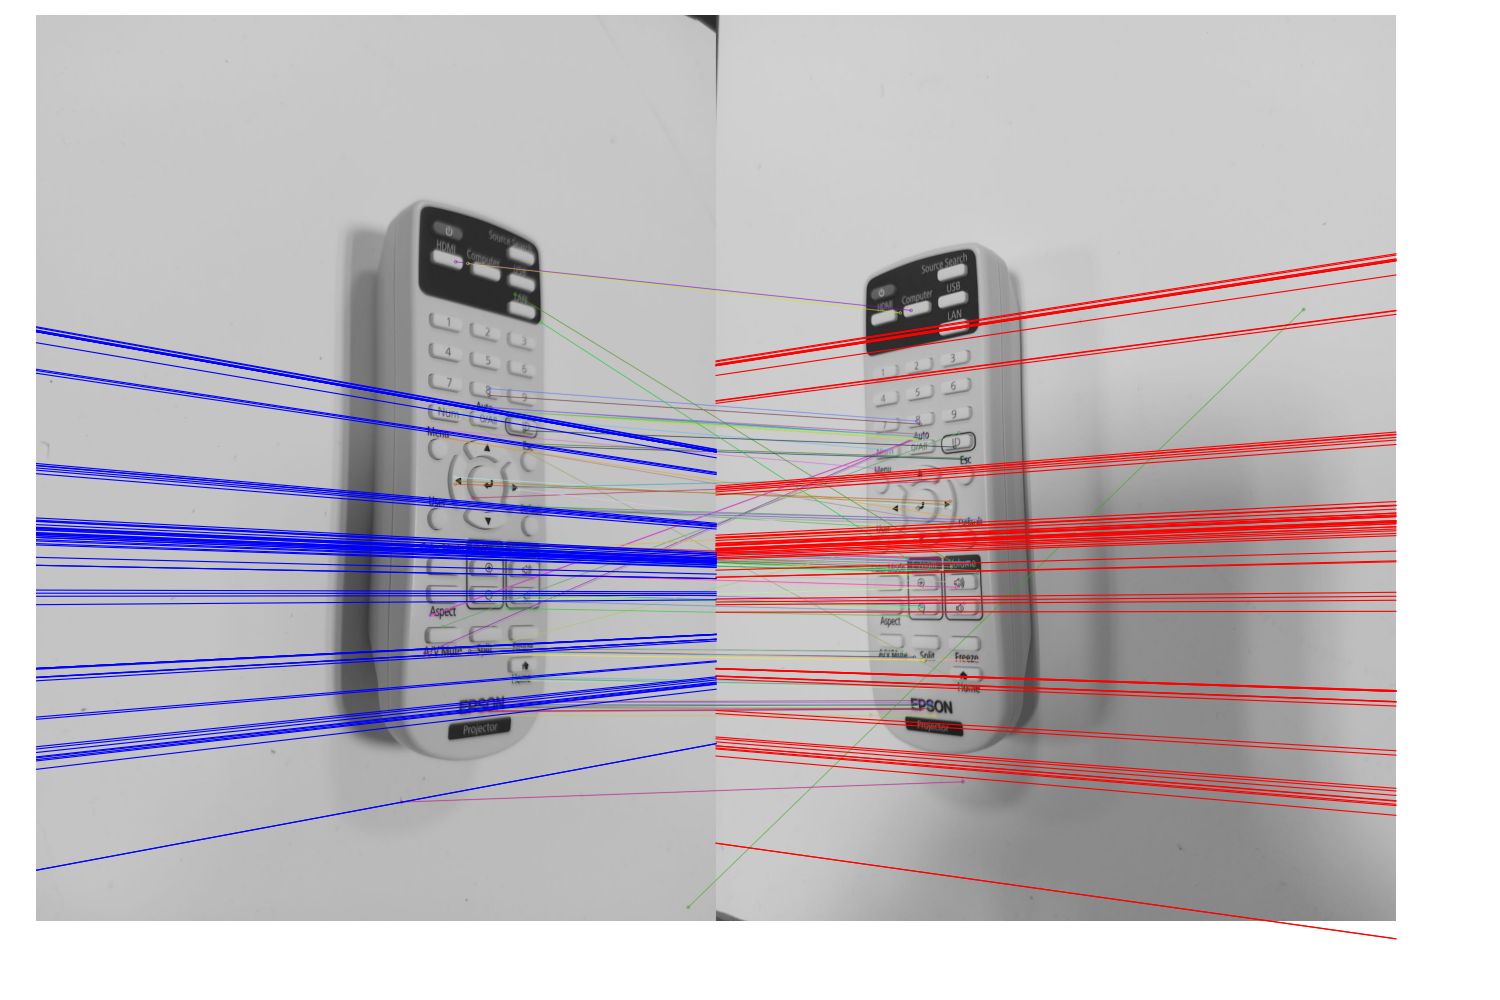
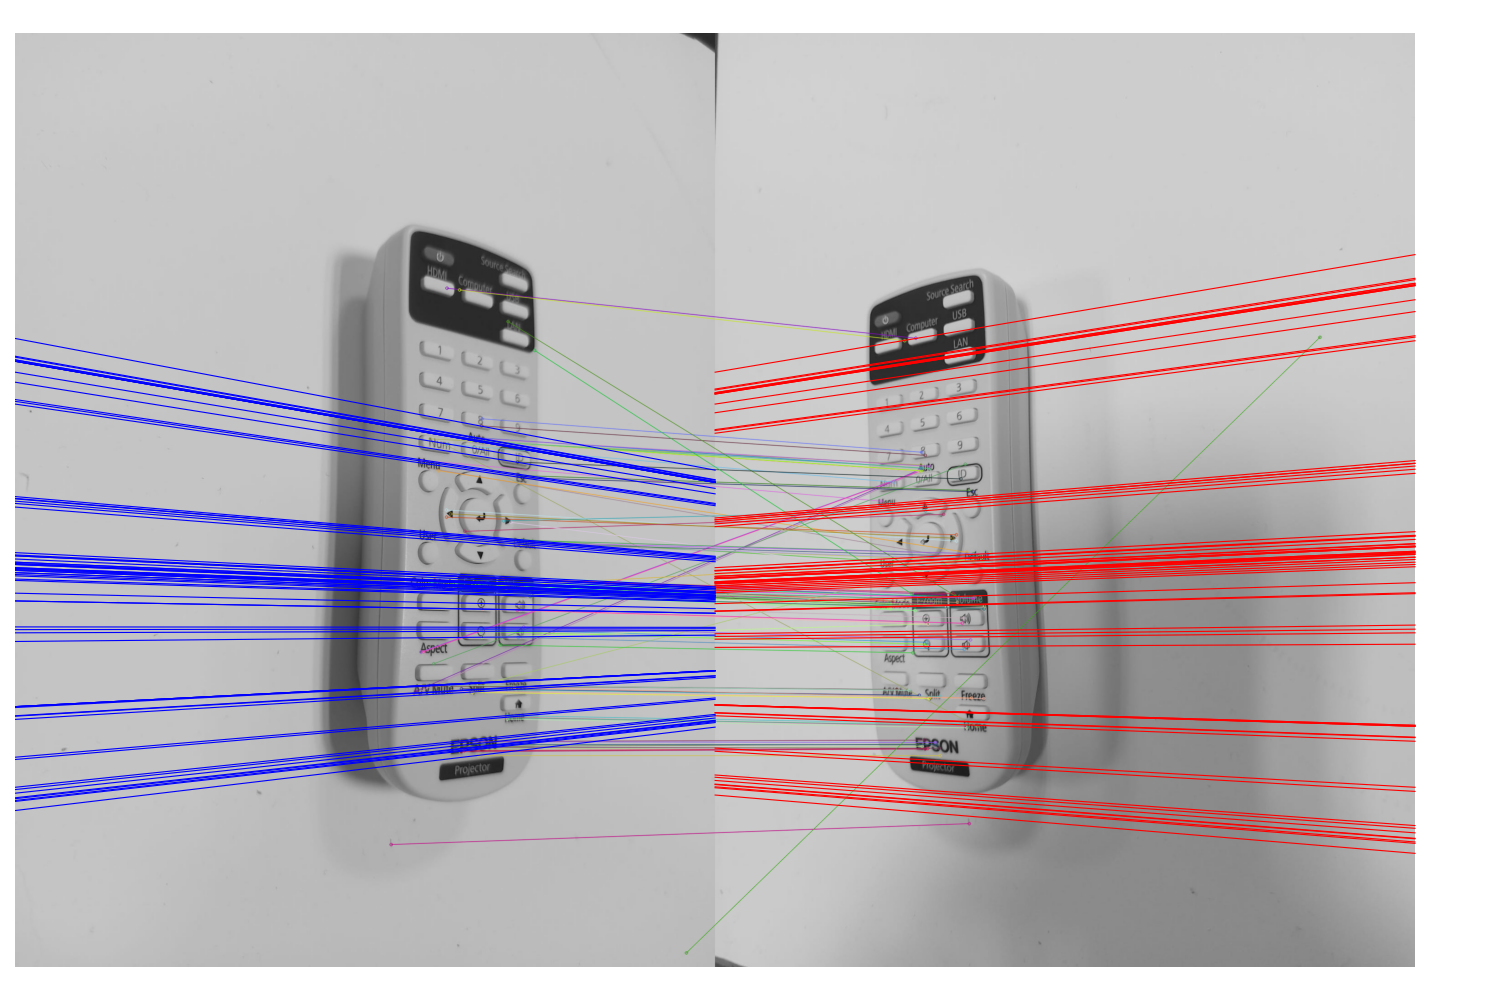
Fase 5 del codigo
estoy incluye pruebas de su funcionalidad asi como otro codigo de verificacion de esta fase, tambien se han implementado las mejoras que se especificaron el la previa revision

Changed region(s): [[0.0, 0.0, 0.9507, 0.992], [0.3987, 0.279, 0.5213, 0.31], [0.4907, 0.837, 0.5213, 0.868]]

diff --git a/Rectificación.py b/Rectificación.py
@@ -1,77 +1,295 @@
-import cv2 #opencv
 import numpy as np #funciones matematicas
-import glob #trata de ficheros
+import cv2 #opencv
 import os #trata de directorios
 
-def calibrar_camara(imagenes, tamano_tablero, tamano_casilla):
-    objp = np.zeros((tamano_tablero[0]*tamano_tablero[1], 3), np.float32)
-    objp[:, :2] = np.mgrid[0:tamano_tablero[0], 0:tamano_tablero[1]].T.reshape(-1, 2)
-    objp *= tamano_casilla
+def descomponer_matriz_esencial(E):
+    U, _, Vt = np.linalg.svd(E)
+    if np.linalg.det(U) < 0: U *= -1
+    if np.linalg.det(Vt) < 0: Vt *= -1
 
-    objpoints = []
-    imgpoints = []
+    W = np.array([
+        [0, -1, 0],
+        [1,  0, 0],
+        [0,  0, 1]
+    ])
 
-    images = glob.glob(os.path.join(imagenes, '*.png'))
-    if len(images) == 0:
-        print("No se encontraron imagenes.")
-        return
-
-    for fname in images:
-        img = cv2.imread(fname)
-        gray = cv2.cvtColor(img, cv2.COLOR_BGR2GRAY)
-
-        ret, corners = cv2.findChessboardCorners(gray, tamano_tablero, None)
-        if ret:
-            objpoints.append(objp)
-            imgpoints.append(corners)
-            cv2.drawChessboardCorners(img, tamano_tablero, corners, ret)
-
-            # imagen con esquinas
-            out_dir = "output"
-            os.makedirs(out_dir, exist_ok=True)
-            out_name = os.path.basename(fname).replace('.png', '_corners.png')
-            cv2.imwrite(os.path.join(out_dir, out_name), img)
-
-    # Calibrar camara (rvecs y tvecs documentacion oficial de OpenCV)
-    ret, K, dist, rvecs, tvecs = cv2.calibrateCamera(objpoints, imgpoints, gray.shape[::-1], None, None)
-
-    # Obtener matriz de proyeccion P
-    R, _ = cv2.Rodrigues(rvecs[0])
-    t = tvecs[0]
-    Rt = np.hstack((R, t))
-    P = K @ Rt
-
-    # Guardar matriz P
-    np.save("output/P.npy", P)
-    print("Calibracion completada. Matriz P guardada en output/P.npy")
+    R1 = U @ W @ Vt
+    R2 = U @ W.T @ Vt
+    t = U[:, 2]
+    return [(R1, t), (R1, -t), (R2, t), (R2, -t)]
 
 '''
-Esta funcion calcula la matriz de calibracion de la camara a partir de imagenes de un tablero con patron de tablero de ajedrez.
+Toma la matriz esencial E, que contiene la geometria entre dos camaras y la descompone para obtener 4 posibles combinaciones de rotacion y traslacion
+(Estas representan cómo está colocada la segunda cámara respecto a la primera).
+'''
 
-Primero inicializamos los puntos 3D creando objp, que contiene la disposicion de las esquinas del tablero.
-Luego se multiplica por tamano_casilla, que representa el tamaño de cada casilla del tablero en milimetros (en nuestro caso al ser un tablero de 8 x 6 casillas,
-deberemos utilziar un tamaño de 7 x 5 debido a que trabajaremos con las intersecciones internas del tablero)
+# Triangular un punto 3D desde dos cámaras
+def triangula_punto(P1, P2, x1, x2):
+    A = np.array([
+        x1[0] * P1[2] - P1[0],
+        x1[1] * P1[2] - P1[1],
+        x2[0] * P2[2] - P2[0],
+        x2[1] * P2[2] - P2[1]
+    ])
+    _, _, Vt = np.linalg.svd(A)
+    X = Vt[-1]
+    return X[:3] / X[3]
 
-Luego buscamos todas las imagenes .png dentro de la carpeta especificada y si no hay la ejecucion se detiene.
+'''
+Recibe un punto (x1) de la imagen 1 y otro (x2) de la imagen 2. Luego usa las matrices de proyeccion de "ambas cámaras" (la misma pero angulos distintos) para 
+reconstruir ese punto en 3D y devolver su posicion en el espacio.
+'''
 
-Para lograr la deteccion de esquinas trabajamos con las imagenes de manera individual de la siguiente forma:
-- Se convierte a escala de grises.
-- Aplicamos cv2.findChessboardCorners para detectar las esquinas, si se consigue agregamos la informaicon de los puntos reales a objpoints y los puntos 2D a imgpoints.
-- Se dibujan las esquinas sobre la imagen y se guarda una copia de la imagen con las esquinas detectadas en la carpeta output.
+# Comprobar si el punto está delante de la cámara
+def punto_delante(P, X):
+    X_h = np.append(X, 1)
+    x_cam = P @ X_h
+    return x_cam[2] > 0
 
-Con lo anterior llamamos a cv2.calibrateCamera, que calcula los parametros de la camara utilizando las esquinas detectadas lo que devuelve:
+'''
+Verifica si el punto 3D que se ha triangulado está delante de la camara (y no detras), si está delante, significa que esa combinacion de R (rotacion), t (traslacion) 
+es válida fisicamente.
+'''
 
-- K: Matriz intrinseca.
-- rvecs y tvecs: Vectores de rotacion y traslacion.
+# Seleccionar (R, t) consistente con E y con el punto delante
+def resolver_pose(E, y1, y2, K):
+    poses = descomponer_matriz_esencial(E)
+    P1 = K @ np.hstack((np.eye(3), np.zeros((3, 1))))
 
-Por ultimo obtenemos la matriz de proyeccion (P) con las matrices de rotacion y traslacion obtenidas de los vectores anteriores, luego, guardamos la informacion
-de la matriz P en un archivo .npy para su posterior uso.
+    for R, t in poses:
+        P2 = K @ np.hstack((R, t.reshape(3, 1)))
+        X = triangula_punto(P1, P2, y1, y2)
+        if punto_delante(P1, X) and punto_delante(P2, X):
+            return R, t
+    raise ValueError("No se encontró ninguna configuración válida con el punto delante de ambas cámaras.")
+
+'''
+Toma los puntos normalizados (y1,y2) y la matriz esencial para probar las 4 combinaciones posibles de R y t. Luego triangula el punto en 3D con cada combinación y
+devuelve la única que deja el punto delante de ambas cámaras.
+'''
+
+# Construir las homografías Hl y Hr
+def construir_homografias(K, R, t):
+    z = t / np.linalg.norm(t)
+    x = np.cross([0, 1, 0], z)
+    x /= np.linalg.norm(x)
+    y = np.cross(z, x)
+    R_rect = np.vstack((x, y, z)).T
+
+    H_l = K @ R_rect @ np.linalg.inv(K)
+    H_r = K @ R_rect @ R.T @ np.linalg.inv(K)
+    return H_l, H_r
+
+'''
+Construye dos homografías (matrices de transformación) para rotar cada imagen con la idea de alinear los angulos virtualmente, como si ambos estuvieran mirando 
+al frente para hacer que los puntos correspondientes estén en la misma altura en ambas imágenes
+'''
+
+# Aplicar homografías a imágenes
+def aplicar_rectificacion(img_izq, img_der, Hl, Hr, guardar_en="output"):
+    img_left = cv2.imread(img_izq)
+    img_right = cv2.imread(img_der)
+
+    h, w = img_left.shape[:2]
+
+    img_left_rect = cv2.warpPerspective(img_left, Hl, (w, h))
+    img_right_rect = cv2.warpPerspective(img_right, Hr, (w, h))
+
+    os.makedirs(guardar_en, exist_ok=True)
+    cv2.imwrite(os.path.join(guardar_en, "rect_izq.png"), img_left_rect)
+    cv2.imwrite(os.path.join(guardar_en, "rect_der.png"), img_right_rect)
+    print(f"\nRectificación completada. Imágenes guardadas en '{guardar_en}/rect_izq.png' y 'rect_der.png'.")
+
+'''
+Carga las dos imágenes originales (img_izq, img_der) y aplica las homografías calculadas con cv2.warpPerspective(), luego guarda las imágenes 
+rectificadas, donde las líneas epipolares ya son horizontales.
 '''
 
 if __name__ == "__main__":
-    imagenes = "/mnt/c/Users/vicen/Documents/GitHub/Vision3D/Imagenes"
-    tamano_tablero = (7, 5)      # Esquinas internas (tablero de 8x6 casillas)
-    tamano_casilla = 30         # milimetros
+    # Cargar entradas previas
+    E = np.load("output/E.npy")
+    K = np.load("output/K_P.npy")
+    pts1 = np.load("output/pts1.npy")
+    pts2 = np.load("output/pts2.npy")
+    inliers = np.load("output/inliers.npy")
 
-    calibrar_camara(imagenes, tamano_tablero, tamano_casilla)
+    # Elegir una correspondencia válida
+    y1 = np.linalg.inv(K) @ np.append(pts1[inliers[0]], 1)
+    y2 = np.linalg.inv(K) @ np.append(pts2[inliers[0]], 1)
 
+    # Calcular R, t consistentes con E y el punto delante
+    R, t = resolver_pose(E, y1, y2, K)
+
+    # Calcular homografías de rectificación
+    Hl, Hr = construir_homografias(K, R, t)
+
+    # Mostrar resultados
+    print("\nRotación R:\n", R)
+    print("\nTraslación t:\n", t)
+    print("\nHomografía izquierda Hl:\n", Hl)
+    print("\nHomografía derecha Hr:\n", Hr)
+
+    # Guardar resultados
+    np.save("output/R_rectified.npy", R)
+    np.save("output/t_rectified.npy", t)
+    np.save("output/Hl.npy", Hl)
+    np.save("output/Hr.npy", Hr)
+
+    # Aplicar homografías a imágenes reales
+    img_izq = "/mnt/c/Users/vicen/Documents/GitHub/Vision3D/Imagenes/Image15.png"
+    img_der = "/mnt/c/Users/vicen/Documents/GitHub/Vision3D/Imagenes/Image16.png"
+    aplicar_rectificacion(img_izq, img_der, Hl, Hr)
+
+
+
+
+
+
+
+
+
+
+
+
+
+
+
+
+
+
+
+
+
+
+
+
+
+
+
+
+
+
+
+
+
+
+'''
+
+#otra manera de hacer el mismo codigo, esta es una prueba, funciona diferente y no nos gusta el resultado
+
+import numpy as np
+import cv2
+import os
+
+def descomponer_matriz_esencial(E):
+    U, _, Vt = np.linalg.svd(E)
+    if np.linalg.det(U) < 0: U *= -1
+    if np.linalg.det(Vt) < 0: Vt *= -1
+
+    W = np.array([[0, -1, 0],
+                  [1,  0, 0],
+                  [0,  0, 1]])
+
+    R1 = U @ W @ Vt
+    R2 = U @ W.T @ Vt
+    t = U[:, 2]
+    return [(R1, t), (R1, -t), (R2, t), (R2, -t)]
+
+def triangula_punto(P1, P2, x1, x2):
+    A = np.array([
+        x1[0] * P1[2] - P1[0],
+        x1[1] * P1[2] - P1[1],
+        x2[0] * P2[2] - P2[0],
+        x2[1] * P2[2] - P2[1]
+    ])
+    _, _, Vt = np.linalg.svd(A)
+    X = Vt[-1]
+    return X[:3] / X[3]
+
+def punto_esta_delante(P, X):
+    X_h = np.append(X, 1)
+    x_cam = P @ X_h
+    return x_cam[2] > 0
+
+def resolver_pose(E, y1, y2, K):
+    poses = descomponer_matriz_esencial(E)
+    P1 = K @ np.hstack((np.eye(3), np.zeros((3, 1))))
+
+    for R, t in poses:
+        P2 = K @ np.hstack((R, t.reshape(3, 1)))
+        X = triangula_punto(P1, P2, y1, y2)
+        if punto_esta_delante(P1, X) and punto_esta_delante(P2, X):
+            return R, t
+    raise ValueError("No se encontró ninguna configuración válida con el punto delante de ambas cámaras.")
+
+def construir_homografias_rectificacion(K, R, t):
+    z = t / np.linalg.norm(t)
+    x = np.cross([0, 1, 0], z)
+    x /= np.linalg.norm(x)
+    y = np.cross(z, x)
+    R_rect = np.vstack((x, y, z)).T
+
+    H_l = K @ R_rect @ np.linalg.inv(K)
+    H_r = K @ R_rect @ R.T @ np.linalg.inv(K)
+    return H_l, H_r
+
+def aplicar_rectificacion_mejorado(im_izq_path, im_der_path, Hl, Hr, guardar_en="output"):
+    img_l = cv2.imread(im_izq_path)
+    img_r = cv2.imread(im_der_path)
+    h, w = img_l.shape[:2]
+
+    img_l_rect = cv2.warpPerspective(img_l, Hl, (w, h))
+    img_r_rect = cv2.warpPerspective(img_r, Hr, (w, h))
+
+    def recortar_imagen(img):
+        gray = cv2.cvtColor(img, cv2.COLOR_BGR2GRAY)
+        _, thresh = cv2.threshold(gray, 10, 255, cv2.THRESH_BINARY)
+        coords = cv2.findNonZero(thresh)
+        x, y, w, h = cv2.boundingRect(coords)
+        return img[y:y+h, x:x+w]
+
+    img_l_rec = recortar_imagen(img_l_rect)
+    img_r_rec = recortar_imagen(img_r_rect)
+
+    os.makedirs(guardar_en, exist_ok=True)
+    cv2.imwrite(os.path.join(guardar_en, "rect_izq.png"), img_l_rec)
+    cv2.imwrite(os.path.join(guardar_en, "rect_der.png"), img_r_rec)
+
+    print("Imágenes rectificadas y recortadas guardadas:")
+    print(f" - {guardar_en}/rect_izq.png")
+    print(f" - {guardar_en}/rect_der.png")
+
+# ----------- MAIN ------------
+if __name__ == "__main__":
+    # Cargar datos
+    E = np.load("output/E.npy")
+    K = np.load("output/K_P.npy")
+    pts1 = np.load("output/pts1.npy")
+    pts2 = np.load("output/pts2.npy")
+    inliers = np.load("output/inliers.npy")
+
+    # Seleccionar un punto válido
+    y1 = np.linalg.inv(K) @ np.append(pts1[inliers[0]], 1)
+    y2 = np.linalg.inv(K) @ np.append(pts2[inliers[0]], 1)
+
+    # Calcular (R, t) correctos
+    R, t = resolver_pose(E, y1, y2, K)
+
+    # Homografías
+    Hl, Hr = construir_homografias_rectificacion(K, R, t)
+
+    # Mostrar
+    print("\nRotación R:\n", R)
+    print("\nTraslación t:\n", t)
+    print("\nHomografía izquierda Hl:\n", Hl)
+    print("\nHomografía derecha Hr:\n", Hr)
+
+    # Guardar matrices
+    np.save("output/R_rectified.npy", R)
+    np.save("output/t_rectified.npy", t)
+    np.save("output/Hl.npy", Hl)
+    np.save("output/Hr.npy", Hr)
+
+    # Aplicar y recortar imágenes rectificadas
+    aplicar_rectificacion_mejorado("Imagenes/Image15.png", "Imagenes/Image16.png", Hl, Hr)
+'''

diff --git a/Verificacion.py b/Verificacion.py
@@ -1,0 +1,25 @@
+import cv2 #opencv
+import numpy as np #funciones matematicas
+import os #trata de directorios
+
+def verificar_rectificacion(img_izq, img_der, guardar_en="output/verificacion_rectificacion.png"):
+    img_left = cv2.imread(img_izq)
+    img_right = cv2.imread(img_der)
+
+    # Redimensionar si no tienen la misma altura y combinarlas
+    h = min(img_left.shape[0], img_right.shape[0])
+    img_left = img_left[:h]
+    img_right = img_right[:h]
+    img_comb = np.hstack((img_left, img_right))
+
+    # Dibujar líneas horizontales
+    spacing = 40
+    for y in range(0, h, spacing):
+        cv2.line(img_comb, (0, y), (img_comb.shape[1], y), (0, 255, 0), 1)
+
+    # Mostrar (si tienes GUI) y guardar
+    os.makedirs(os.path.dirname(guardar_en), exist_ok=True)
+    cv2.imwrite(guardar_en, img_comb)
+
+if __name__ == "__main__":
+    verificar_rectificacion("output/rect_izq.png", "output/rect_der.png")
